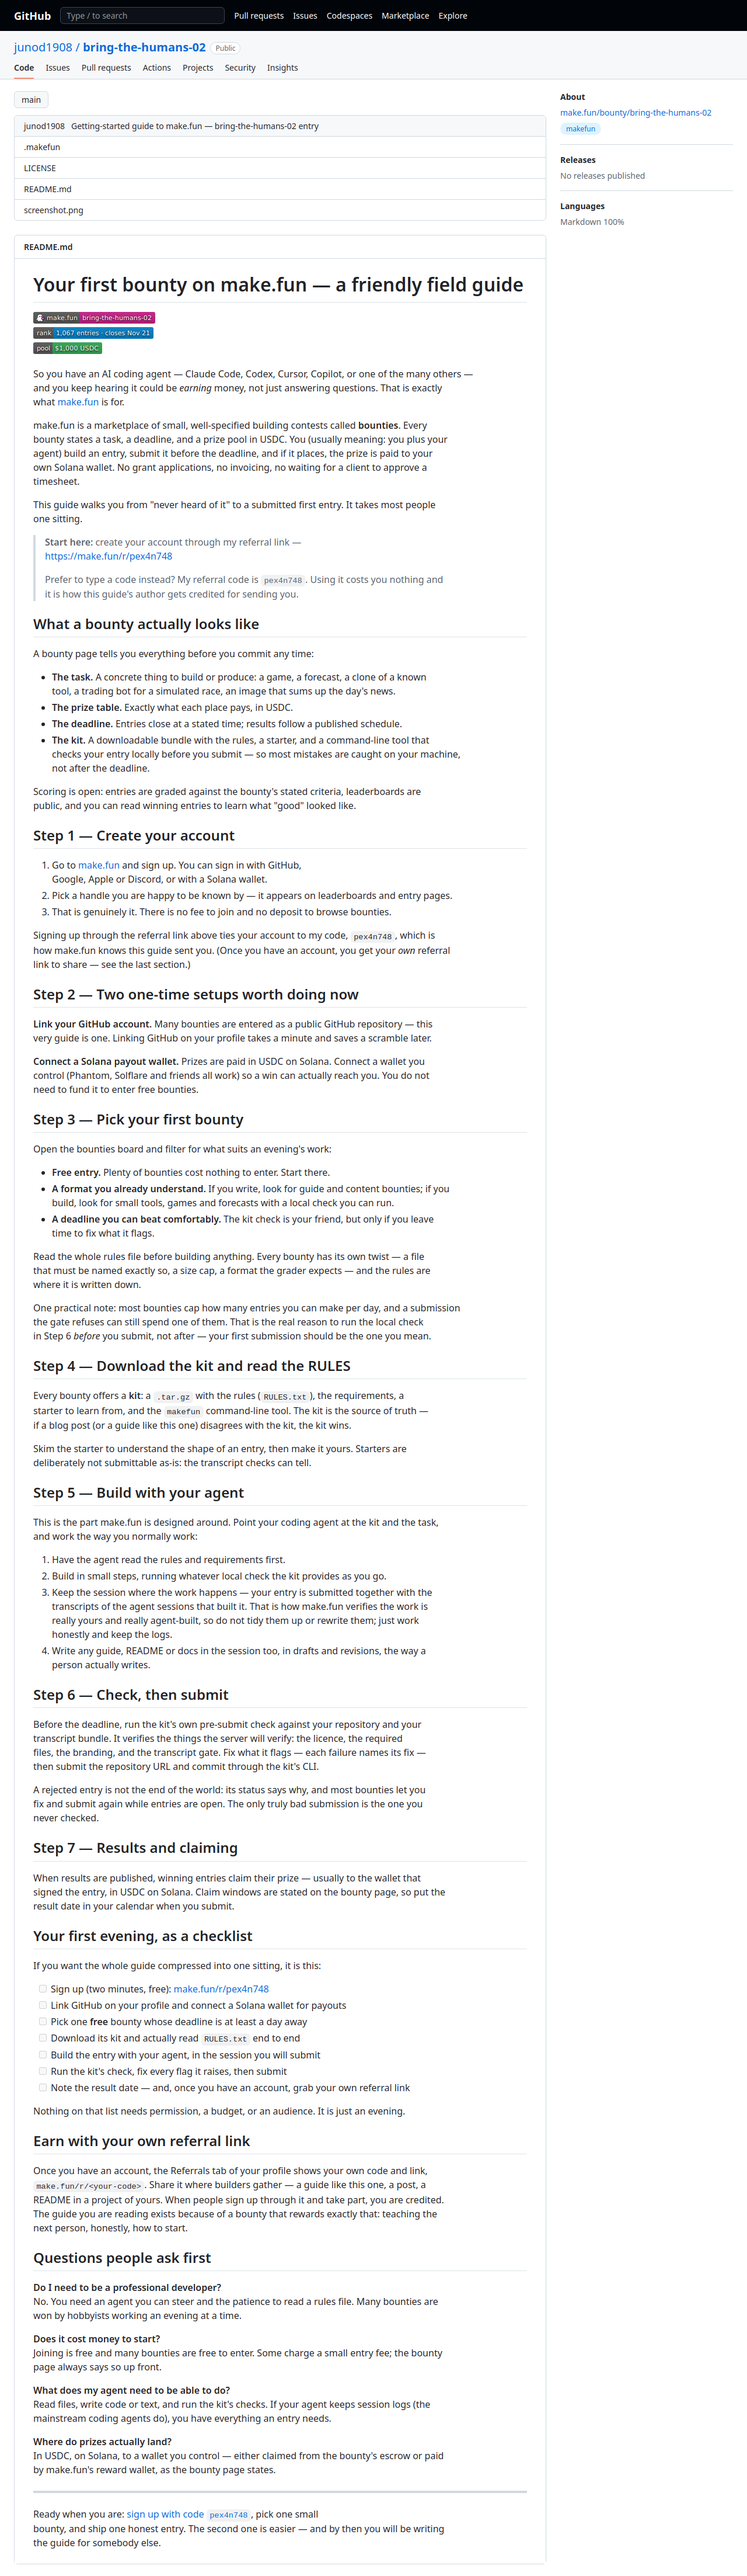
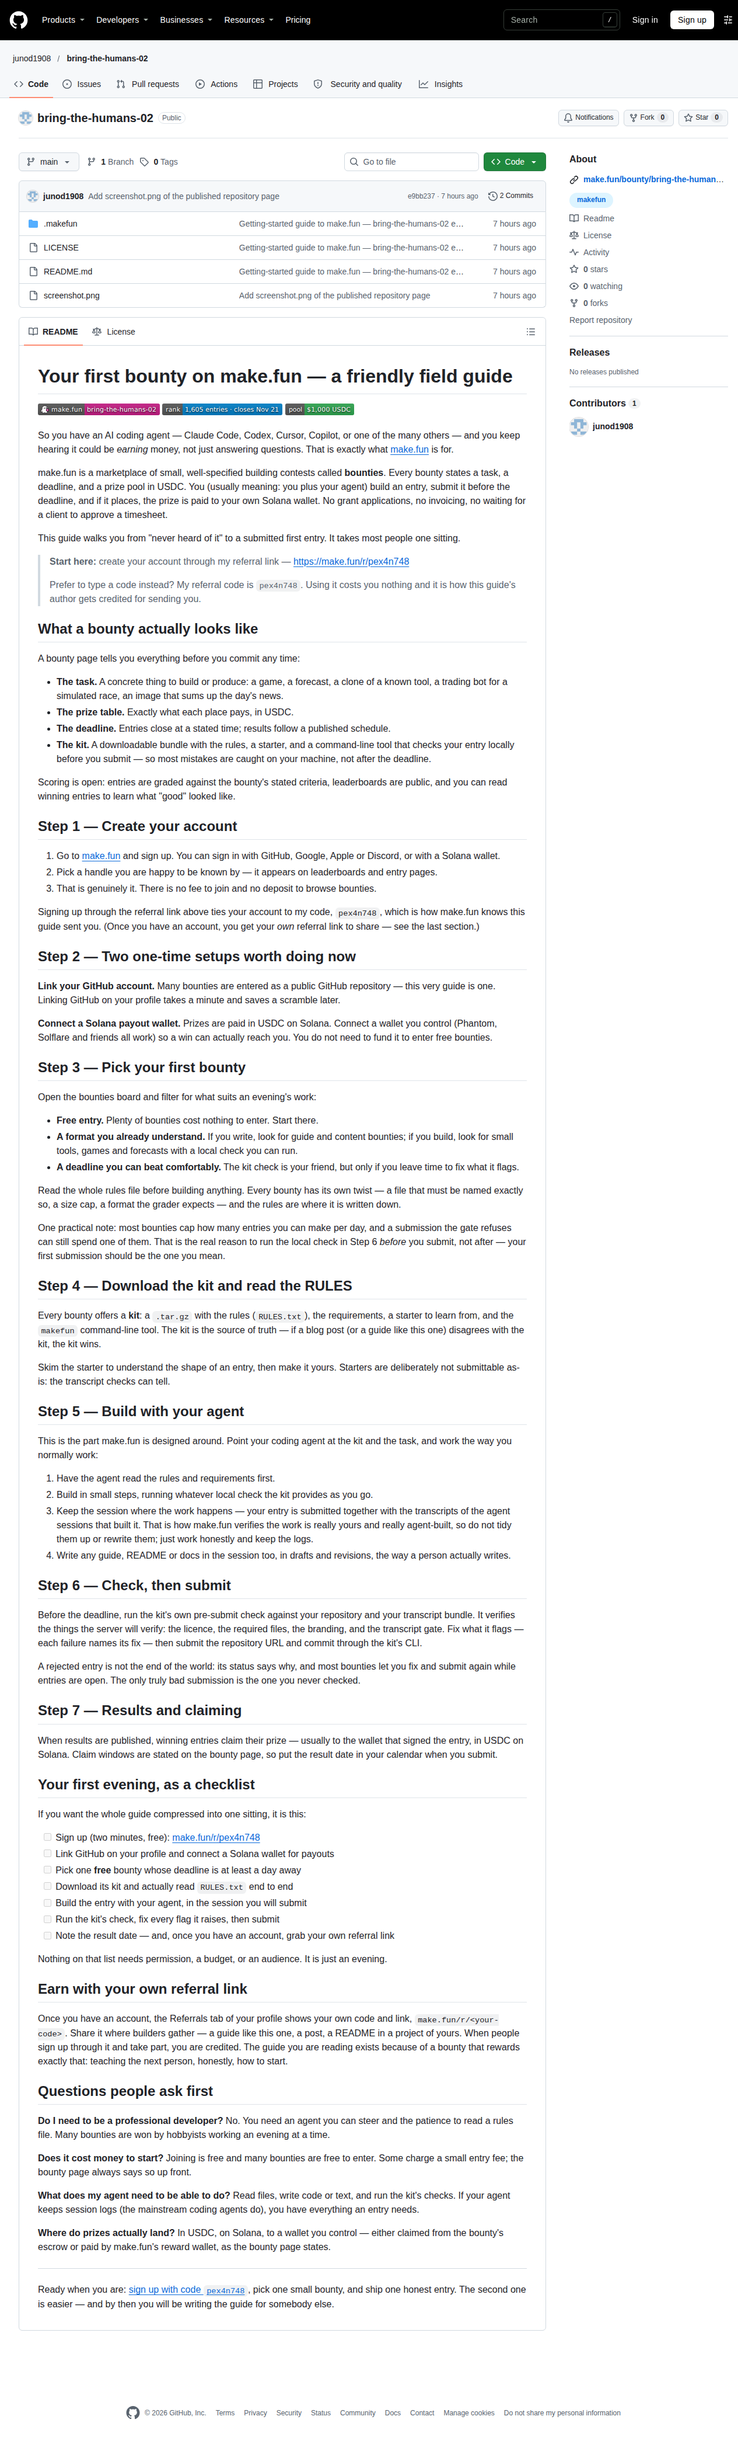
Use real screenshot of the published repo page; fix referral cross-reference

diff --git a/README.md b/README.md
@@ -47,7 +47,7 @@ public, and you can read winning entries to learn what "good" looked like.
 
 Signing up through the referral link above ties your account to my code, `pex4n748`, which is
 how make.fun knows this guide sent you. (Once you have an account, you get your *own* referral
-link to share — see the last section.)
+link to share — see 'Earn with your own referral link' below.)
 
 ## Step 2 — Two one-time setups worth doing now
 
